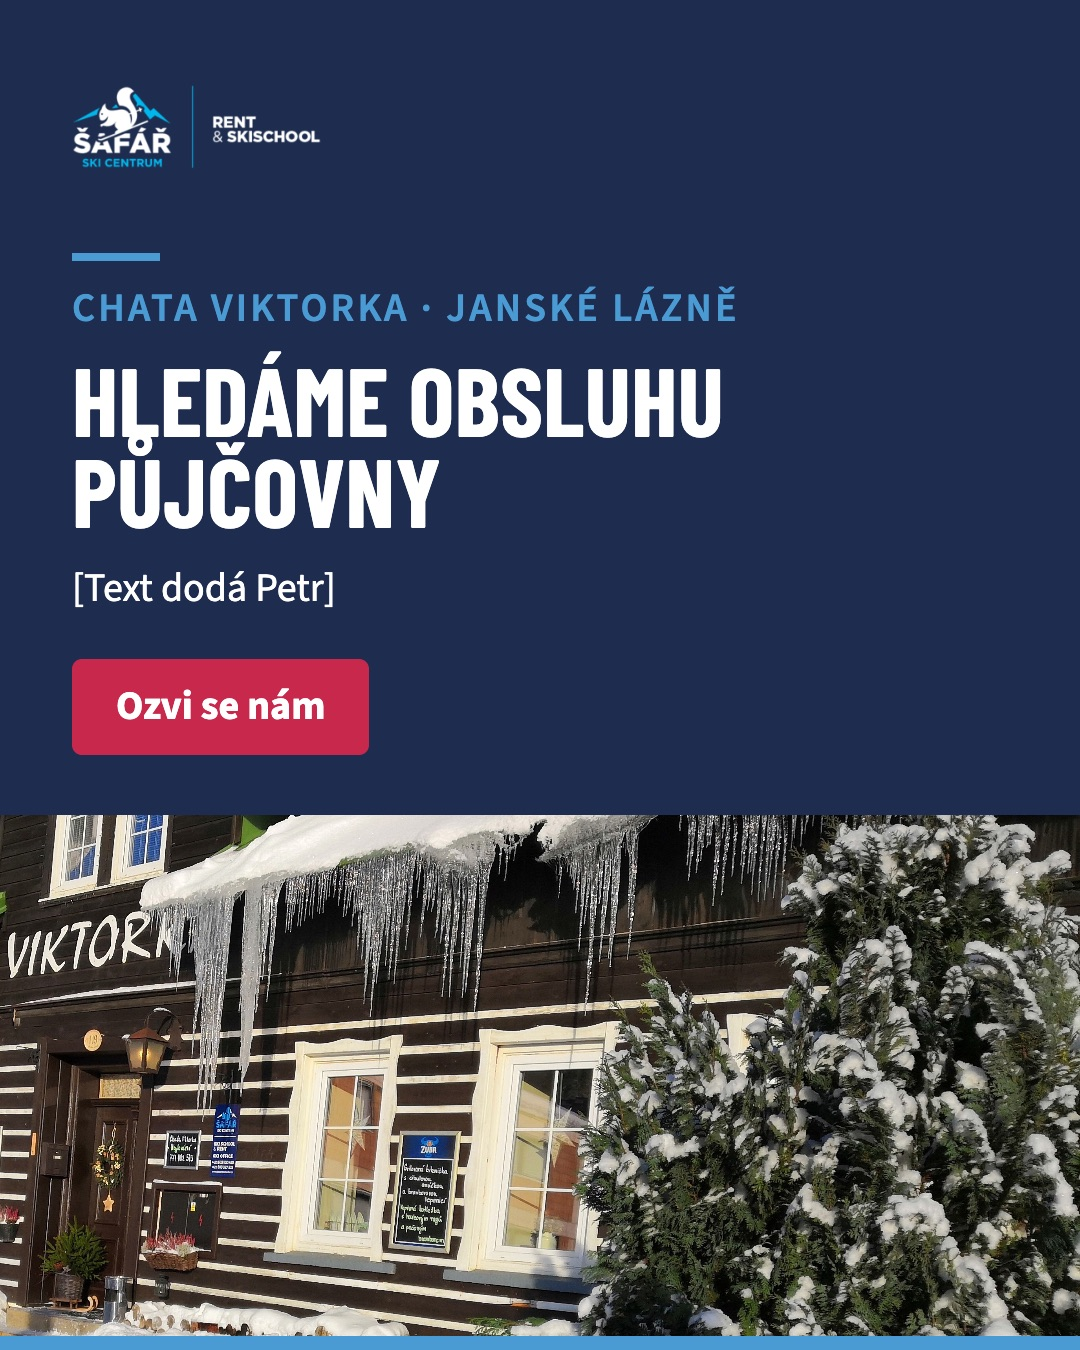
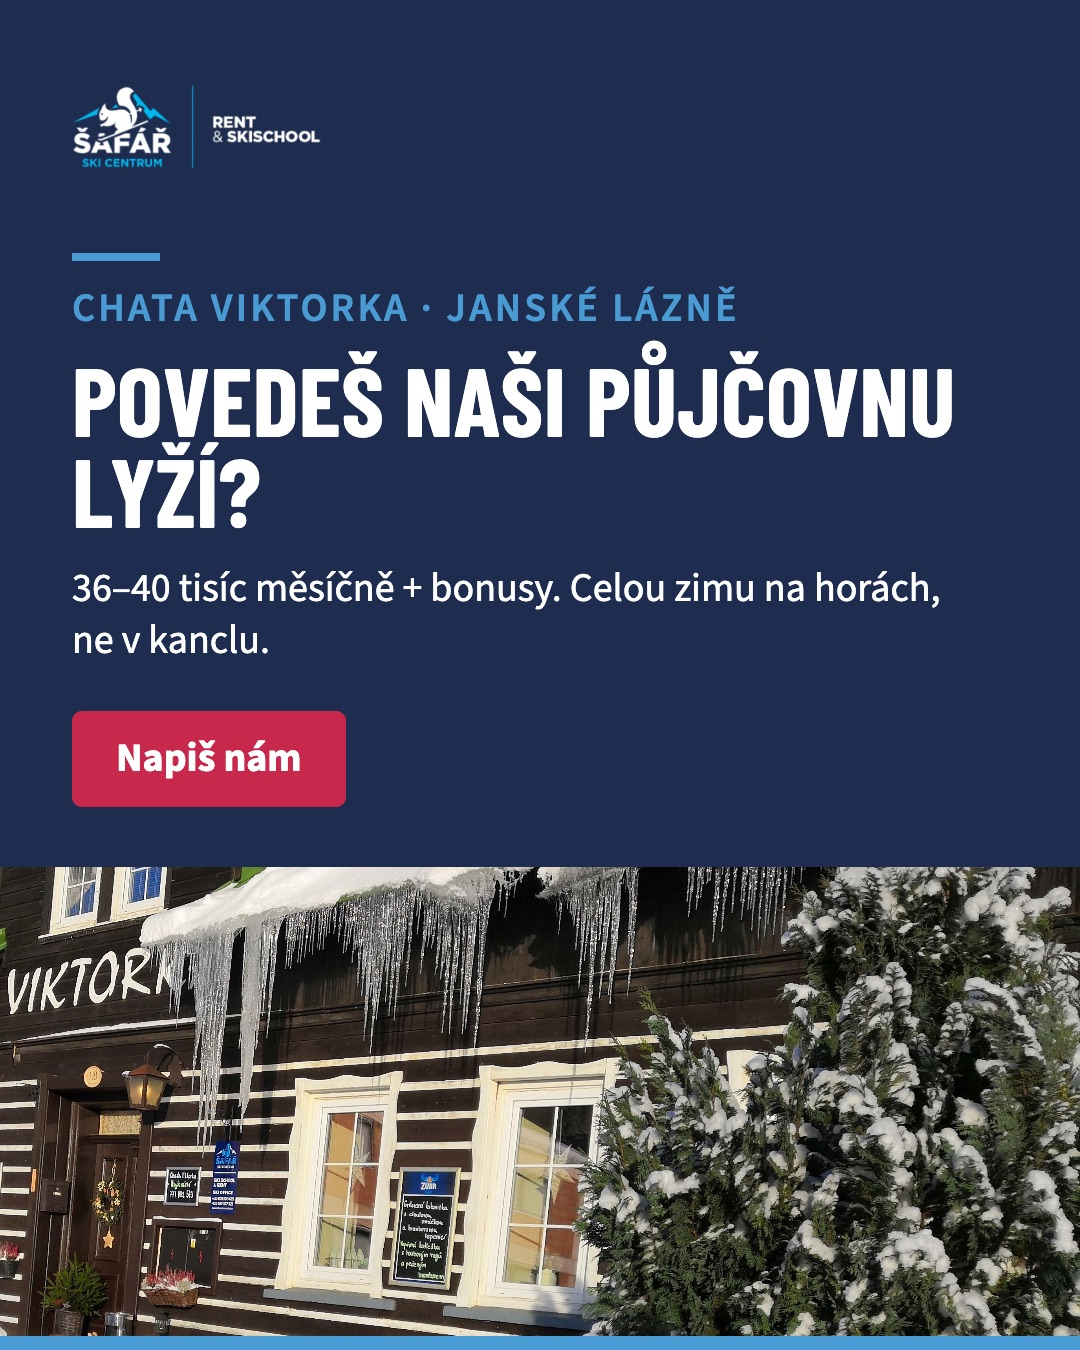
Safar: finalni texty postu 01b (vedouci pujcovny Viktorka)

diff --git a/p/safar-2627/index.html b/p/safar-2627/index.html
@@ -302,7 +302,7 @@ footer{margin-top:56px;padding-top:18px;border-top:1px solid var(--line);color:v
 
 <div class="note">
   <strong>Aktualizace 9. 11. 2026: všechno je o týden později.</strong><br>
-  Proti původnímu plánu máme týdenní zpoždění, takže jsou všechny termíny posunuté o 7 dní. Rytmus úterý a pátek zůstává. Navíc přibyl mimořádný příspěvek <strong>01b · Hledáme obsluhu půjčovny na Viktorce</strong> ve středu 11. 11.
+  Proti původnímu plánu máme týdenní zpoždění, takže jsou všechny termíny posunuté o 7 dní. Rytmus úterý a pátek zůstává. Navíc přibyl mimořádný příspěvek <strong>01b · Povedeš naši půjčovnu lyží?</strong> (vedoucí půjčovny na Viktorce) ve středu 11. 11.
   <ul class="checks" style="margin-top:10px">
     <li><strong>Nábor instruktorů:</strong> uzávěrka 15. 11. je na grafice 02 a 04 i v textech. Post 02 teď jde ven 13. 11. a post 04 („poslední výzva“) až 20. 11., tedy po uzávěrce. Je potřeba buď posunout uzávěrku, nebo vrátit post 04 před 15. 11.</li>
     <li><strong>Prosinec:</strong> 14 vychází na Štědrý den 25. 12., 15 („Poslední šance na poukaz“) až 29. 12., po Vánocích. 16 se přesouvá na 5. 1. 2027.</li>
@@ -336,13 +336,37 @@ Takhle vypadala minulá zima na Duncanu a na Černé hoře.
 
 Otevíráme v polovině prosince. Rezervace na skicentrumsafar.cz jsou otevřené už teď.`},
 
-{n:"01b",d:"11. 11.",dow:"Středa",m:11,day:11,p:"kampan",pl:"Kampaň",t:"Hledáme obsluhu půjčovny na Viktorce",
+{n:"01b",d:"11. 11.",dow:"Středa",m:11,day:11,p:"kampan",pl:"Kampaň",t:"Povedeš naši půjčovnu lyží? (vedoucí půjčovny)",
  tpl:"C — jeden snímek (feed + story)",
  foto:["06_chata-viktorka_zima_vyrez-bez-rollupu.jpg"],
- mat:"Mimořádný příspěvek mimo rytmus úterý/pátek. Tmavě modrý pruh nahoře s nadpisem a výzvou, pod ním Chata Viktorka v zimě. Fotka je oříznutá tak, aby na ní nebyl rollup s dětským obličejem.",
- why:"Vypadla obsluha zimní půjčovny na Chatě Viktorka. Místo je potřeba obsadit před začátkem sezóny.",
- note:"Texty jsou zatím pracovní. Finální dodá Petr, pak se podle nich upraví grafika i text příspěvku.",
- cap:`[Text příspěvku dodá Petr]`},
+ mat:"Mimořádný příspěvek mimo rytmus úterý/pátek. Tmavě modrý pruh nahoře s nadpisem, mzdou a výzvou, pod ním Chata Viktorka v zimě. Fotka je oříznutá tak, aby na ní nebyl rollup s dětským obličejem. Texty jsou podle zadání od Romana, přepsané hovorověji pro mladší publikum.",
+ why:"Vypadl člověk na zimní půjčovnu. Roman hledá vedoucího/vedoucí půjčovny lyží na HPP nebo DPP, místo je potřeba obsadit před začátkem sezóny.",
+ note:"V popisku je Romanův telefon a info@skicentrumsafar.cz podle jeho zadání. Na Instagramu odkaz v popisku nejde kliknout, proto výzva „Napiš nám“ míří do zpráv.",
+ cap:`Hledáme šéfa nebo šéfku naší půjčovny lyží 🎿
+
+Celou zimu na horách, ne v kanclu. Půjčovnu povedeš ty – lidi, vybavení, rozpis, aby všechno šlapalo.
+
+Co od nás dostaneš:
+– 36–40 tisíc měsíčně + bonusy
+– HPP nebo DPP, krátký/dlouhý týden
+– příspěvek 1 500 Kč na dopravu
+– oblečení s Gore-Texem
+– nové lyže Fischer a Lusti za lepší ceny
+– tréninky s našimi instruktory
+
+Co bys měl/a mít:
+– angličtinu aspoň na pokec (němčina nebo polština = velký plus)
+– s počítačem si tykáš
+– ve frmolu se nezasekneš a umíš si zorganizovat den
+– jde ti to s lidmi i s nářadím
+– máš rád/a sport a nekouříš
+– praxe z půjčovny a bydlení kousek od nás jsou výhoda
+
+Nastupuješ se začátkem sezóny ve SkiResortu Černá hora – Janské Lázně / Svoboda nad Úpou.
+
+Napiš nám sem do zpráv, zavolej Romanovi na 603 327 525 nebo pošli mail na info@skicentrumsafar.cz.
+
+#prace #brigada #krkonose #janskelazne #pujcovnalyzi #skiresortcernahora`},
 
 {n:2,d:"13. 11.",dow:"Pátek",m:11,day:13,p:"kampan",pl:"Kampaň",t:"Hledáme instruktory",
  tpl:"A — karusel, 4 snímky + reklama",
@@ -518,7 +542,7 @@ Tohle je důvod, proč tu práci děláme.`}
 ];
 
 const G = {
- "01b":{n:1,wait:true,note:"Grafika je hotová, čeká na finální texty od Petra."},
+ "01b":{n:1,note:"Texty podle zadání od Romana (PDF „Vedoucí půjčovny lyží“). Upravitelné návrhy jsou v Canvě ve složce Šafář."},
  1:{n:5,note:"Snímky 2–4 jsou fotky s jednou větou, na posledním datum otevření a výzva k rezervaci."},
  2:{n:4,note:"Snímky 2 a 3 na světlé ploše, aby se seznamy daly přečíst. Snímek 1 se použije i pro placenou reklamu."},
  3:{n:1,note:"Výřez lyží v popředí fotky 03, text nahoře."},
